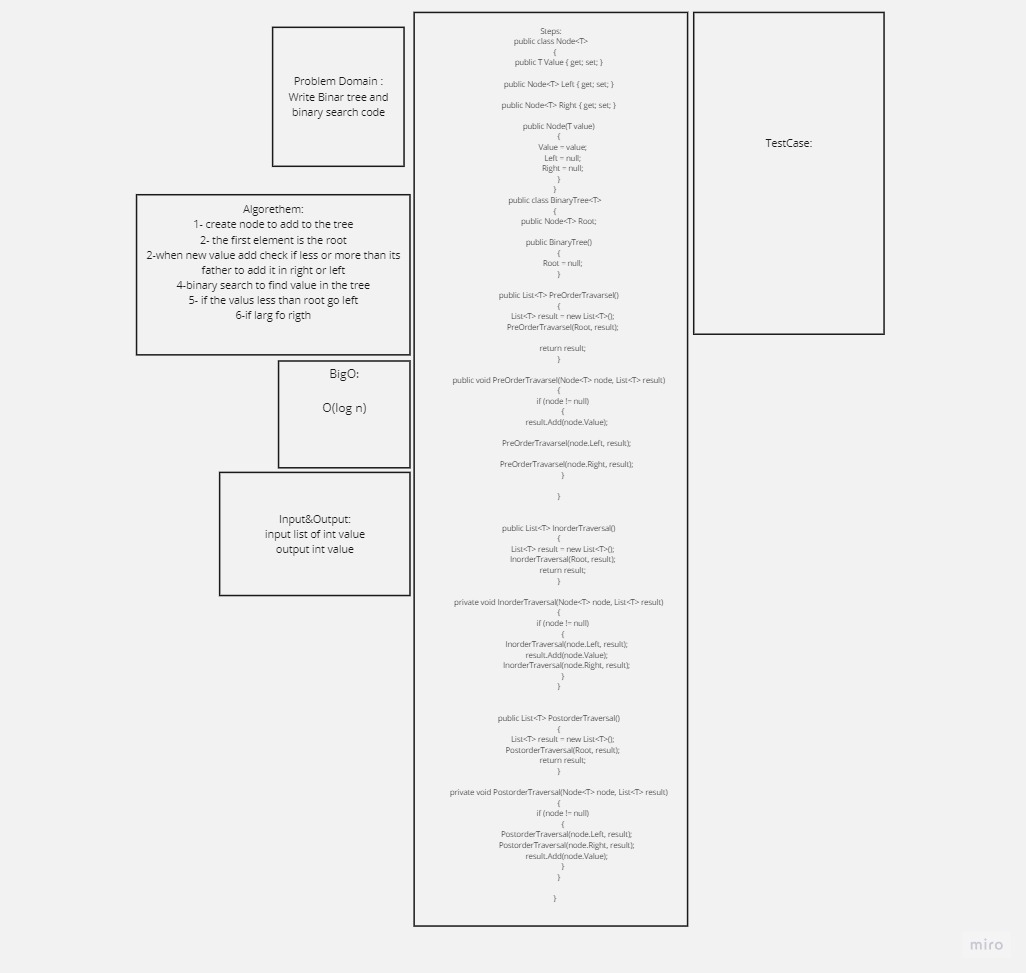
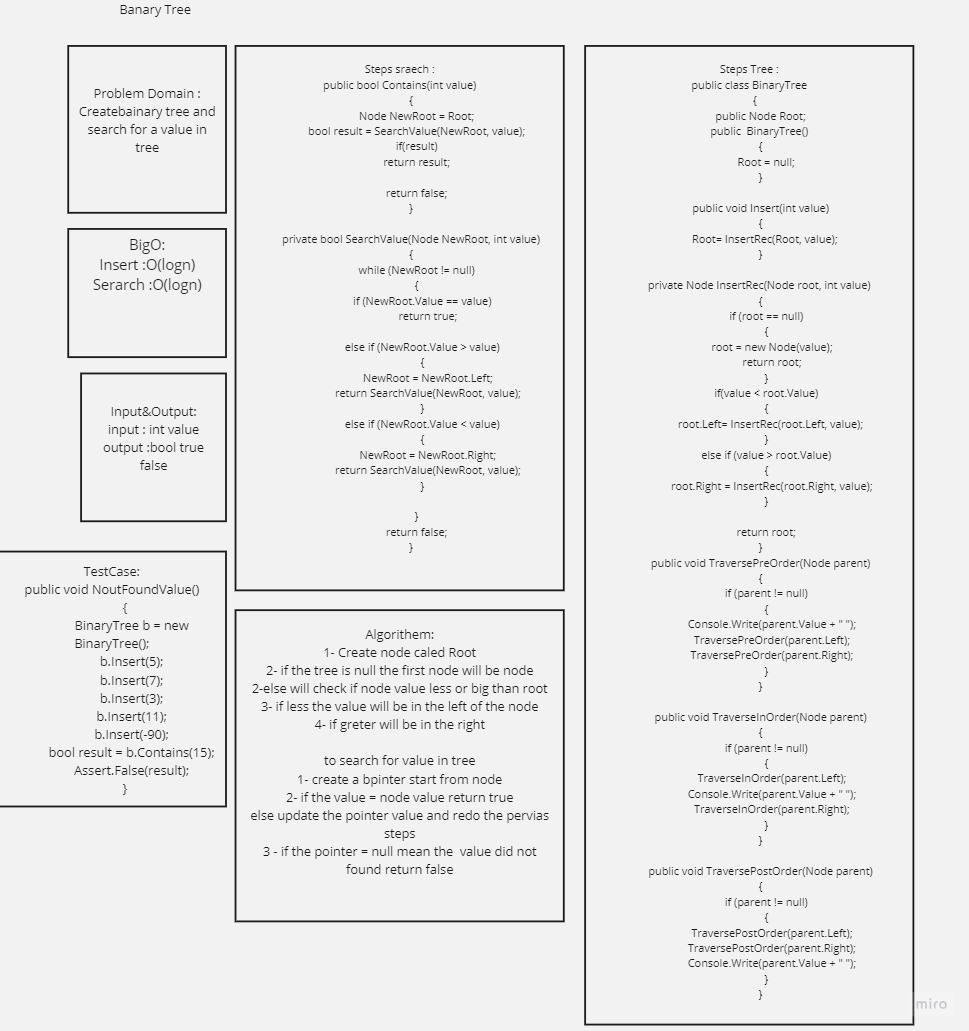
done

diff --git a/Data_Stucture_AndAlgoerthem/Tree/Tree/Tree/Program.cs b/Data_Stucture_AndAlgoerthem/Tree/Tree/Tree/Program.cs
@@ -4,115 +4,138 @@
     {
         static void Main(string[] args)
         {
-           
-           
+
+            BinaryTree b = new BinaryTree();
+            b.Insert(5);
+            b.Insert(6);
+            b.Insert(1);
+            b.Insert(2);
+            b.Insert(11);
+
+           // Console.WriteLine(b.Root.Left.Right.Value);
+            b.TraversePreOrder(b.Root);
+            Console.WriteLine("--------------------------");
+
+            b.TraversePostOrder(b.Root);
+            Console.WriteLine("--------------------------");
+
+            b.TraverseInOrder(b.Root);
+            Console.WriteLine("--------------------------");
+
+            Console.WriteLine(b.Contains(2));
 
         }
     }
 
-    public class Node<T>
+    public class Node
     {
-        public T Value { get; set; }
+        public int Value ;
 
-        public Node<T> Left { get; set; }
+        public Node Left { get; set; }
 
-        public Node<T> Right { get; set; }
+        public Node Right { get; set; }
 
-        public Node(T value)
+        public Node(int value)
         {
             Value = value;
             Left = null;
             Right = null;
         }
     }
-    public class BinaryTree<T>
+    public class BinaryTree
     {
-        public Node<T> Root;
-
-        public BinaryTree()
+        public Node Root;
+       public  BinaryTree()
         {
             Root = null;
         }
 
-        public List<T> PreOrderTravarsel()
+        public void Insert(int value) 
         {
-            List<T> result = new List<T>();
-            PreOrderTravarsel(Root, result);
-
-            return result;
+           Root= InsertRec(Root, value);
         }
-
-        public void PreOrderTravarsel(Node<T> node, List<T> result)
+       
+       private Node InsertRec(Node root, int value)
         {
-            if (node != null)
+            if (root == null)
             {
-                result.Add(node.Value);
-
-                PreOrderTravarsel(node.Left, result);
-
-                PreOrderTravarsel(node.Right, result);
+                root = new Node(value);
+                return root;
+            }
+            if(value < root.Value)
+            {
+               root.Left= InsertRec(root.Left, value);
+            }
+            else if (value > root.Value)
+            {
+                root.Right = InsertRec(root.Right, value);
             }
 
+            return root;
         }
-
-      
-        public List<T> InorderTraversal()
+        public void TraversePreOrder(Node parent)
         {
-            List<T> result = new List<T>();
-            InorderTraversal(Root, result);
-            return result;
-        }
-
-        private void InorderTraversal(Node<T> node, List<T> result)
-        {
-            if (node != null)
+            if (parent != null)
             {
-                InorderTraversal(node.Left, result);
-                result.Add(node.Value);
-                InorderTraversal(node.Right, result);
+                Console.Write(parent.Value + " ");
+                TraversePreOrder(parent.Left);
+                TraversePreOrder(parent.Right);
             }
         }
 
-      
-        public List<T> PostorderTraversal()
+        public void TraverseInOrder(Node parent)
         {
-            List<T> result = new List<T>();
-            PostorderTraversal(Root, result);
-            return result;
+            if (parent != null)
+            {
+                TraverseInOrder(parent.Left);
+                Console.Write(parent.Value + " ");
+                TraverseInOrder(parent.Right);
+            }
         }
 
-        private void PostorderTraversal(Node<T> node, List<T> result)
+        public void TraversePostOrder(Node parent)
         {
-            if (node != null)
+            if (parent != null)
             {
-                PostorderTraversal(node.Left, result);
-                PostorderTraversal(node.Right, result);
-                result.Add(node.Value);
+                TraversePostOrder(parent.Left);
+                TraversePostOrder(parent.Right);
+                Console.Write(parent.Value + " ");
             }
+        }
+
+
+            public bool Contains(int value)
+        {
+            Node NewRoot = Root;
+            bool result = SearchValue(NewRoot, value);
+            if(result)
+            return result;
+
+            return false;
+        }
+
+        private bool SearchValue(Node NewRoot, int value)
+        {
+            while (NewRoot != null)
+            {
+                if (NewRoot.Value == value)
+                    return true;
+
+                else if (NewRoot.Value > value)
+                {
+                    NewRoot = NewRoot.Left;
+                    return SearchValue(NewRoot, value);
+                }
+                else if (NewRoot.Value < value)
+                {
+                    NewRoot = NewRoot.Right;
+                    return SearchValue(NewRoot, value);
+                }
+
+            }
+            return false;
         }
 
     }
-
-    public class BinarySeartchTree<T> : BinaryTree<T> where T : IComparable
-    {
-
-        public void Add(T value)
-        {
-            Root = AddNode(Root, value);
-        }
-        private Node<T> AddNode(Node<T> node, T value)
-        {
-            if (node == null)
-                return new Node<T>(value);
-
-
-            if (value.CompareTo(node.Value) < 0)
-                node.Left = AddNode(node.Left, value);
-
-            else if (value.CompareTo(node.Value) > 0)
-                node.Right = AddNode(node.Right, value);
-
-            return node;
-        }
-    }
+  
 }

diff --git a/Data_Stucture_AndAlgoerthem/Tree/Tree/TestProject1/UnitTest1.cs b/Data_Stucture_AndAlgoerthem/Tree/Tree/TestProject1/UnitTest1.cs
@@ -4,9 +4,170 @@ namespace TestProject1
     public class UnitTest1
     {
         [Fact]
-        public void Test1()
+        public void CheckThatTreeIsNull()
         {
-             
+            BinaryTree b = new BinaryTree();
+           
+            Assert.Null(b.Root);
+        }
+        [Fact]
+        public void TestAddToNullTree()
+        {
+            BinaryTree b = new BinaryTree();
+            b.Insert(5);
+            Assert.NotNull(b.Root);
+        }
+        [Fact]
+        public void TheSecondValueLessThanRootWilBeInLeft()
+        {
+            BinaryTree b = new BinaryTree();
+            b.Insert(5);
+            b.Insert(3);
+            Assert.Equal(3,b.Root.Left.Value);
+        }
+
+        [Fact]
+        public void TheSecondValueBigThanRootWilBeInRight()
+        {
+            BinaryTree b = new BinaryTree();
+            b.Insert(5);
+            b.Insert(7);
+            Assert.Equal(7, b.Root.Right.Value);
+        }
+
+        [Fact]
+        public void SearchValueIntheRoot()
+        {
+            BinaryTree b = new BinaryTree();
+            b.Insert(5);
+            b.Insert(7);
+            b.Insert(3);
+            b.Insert(11);
+            b.Insert(-90);
+            bool result= b.Contains(5);
+            Assert.True(result);
+        }
+        [Fact]
+        public void SearchValueInthemiddelInLeft()
+        {
+            BinaryTree b = new BinaryTree();
+            b.Insert(5);
+            b.Insert(7);
+            b.Insert(3);
+            b.Insert(11);
+            b.Insert(-90);
+            bool result = b.Contains(3);
+            Assert.True(result);
+        }
+
+        [Fact]
+        public void SearchValueInthemiddelInRight()
+        {
+            BinaryTree b = new BinaryTree();
+            b.Insert(5);
+            b.Insert(7);
+            b.Insert(3);
+            b.Insert(11);
+            b.Insert(-90);
+            bool result = b.Contains(7);
+            Assert.True(result);
+        }
+
+        [Fact]
+        public void SearchValueIntheendInLeft()
+        {
+            BinaryTree b = new BinaryTree();
+            b.Insert(5);
+            b.Insert(7);
+            b.Insert(3);
+            b.Insert(11);
+            b.Insert(-90);
+            bool result = b.Contains(-90);
+            Assert.True(result);
+        }
+        [Fact]
+        public void SearchValueIntheendInRight()
+        {
+            BinaryTree b = new BinaryTree();
+            b.Insert(5);
+            b.Insert(7);
+            b.Insert(3);
+            b.Insert(11);
+            b.Insert(-90);
+            bool result = b.Contains(11);
+            Assert.True(result);
+        }
+
+        [Fact]
+        public void NoutFoundValue()
+        {
+            BinaryTree b = new BinaryTree();
+            b.Insert(5);
+            b.Insert(7);
+            b.Insert(3);
+            b.Insert(11);
+            b.Insert(-90);
+            bool result = b.Contains(15);
+            Assert.False(result);
+        }
+             [Fact]
+        public void pre_order()
+        {
+            BinaryTree b = new BinaryTree();
+            b.Insert(5);
+            b.Insert(7);
+            b.Insert(3);
+            b.Insert(11);
+            b.Insert(-90);
+           
+            Assert.Equal(5,5);
+            Assert.Equal(3, 3);
+            Assert.Equal(-90, -90);
+            Assert.Equal(7, 7);
+            Assert.Equal(11, 11);
+           
+
+
+
+
+        }
+        [Fact]
+        public void in_order()
+        {
+            BinaryTree b = new BinaryTree();
+            b.Insert(5);
+            b.Insert(7);
+            b.Insert(3);
+            b.Insert(11);
+            b.Insert(-90);
+
+            Assert.Equal(-90, -90);
+            Assert.Equal(3, 3);
+            Assert.Equal(11, 11);
+                   
+            
+            Assert.Equal(7, 7);
+            Assert.Equal(5, 5);
+
+        }
+        [Fact]
+        public void post_order()
+        {
+            BinaryTree b = new BinaryTree();
+            b.Insert(5);
+            b.Insert(7);
+            b.Insert(3);
+            b.Insert(11);
+            b.Insert(-90);
+
+            Assert.Equal(-90, -90);
+            Assert.Equal(3, 3);
+            Assert.Equal(5, 5);
+            Assert.Equal(7, 7);
+            Assert.Equal(11, 11);
+
+
+            
         }
     }
 }

diff --git a/Data_Stucture_AndAlgoerthem/Tree/Tree/README.md b/Data_Stucture_AndAlgoerthem/Tree/Tree/README.md
@@ -1,2 +1,8 @@
 # Binary Tree 
+
+## What is Tree 
+
+it is a nonleniar data structure the first node caled root and each node has
+right should be large than root and left that chould be less than root 
+
 ![](img.jpg)
